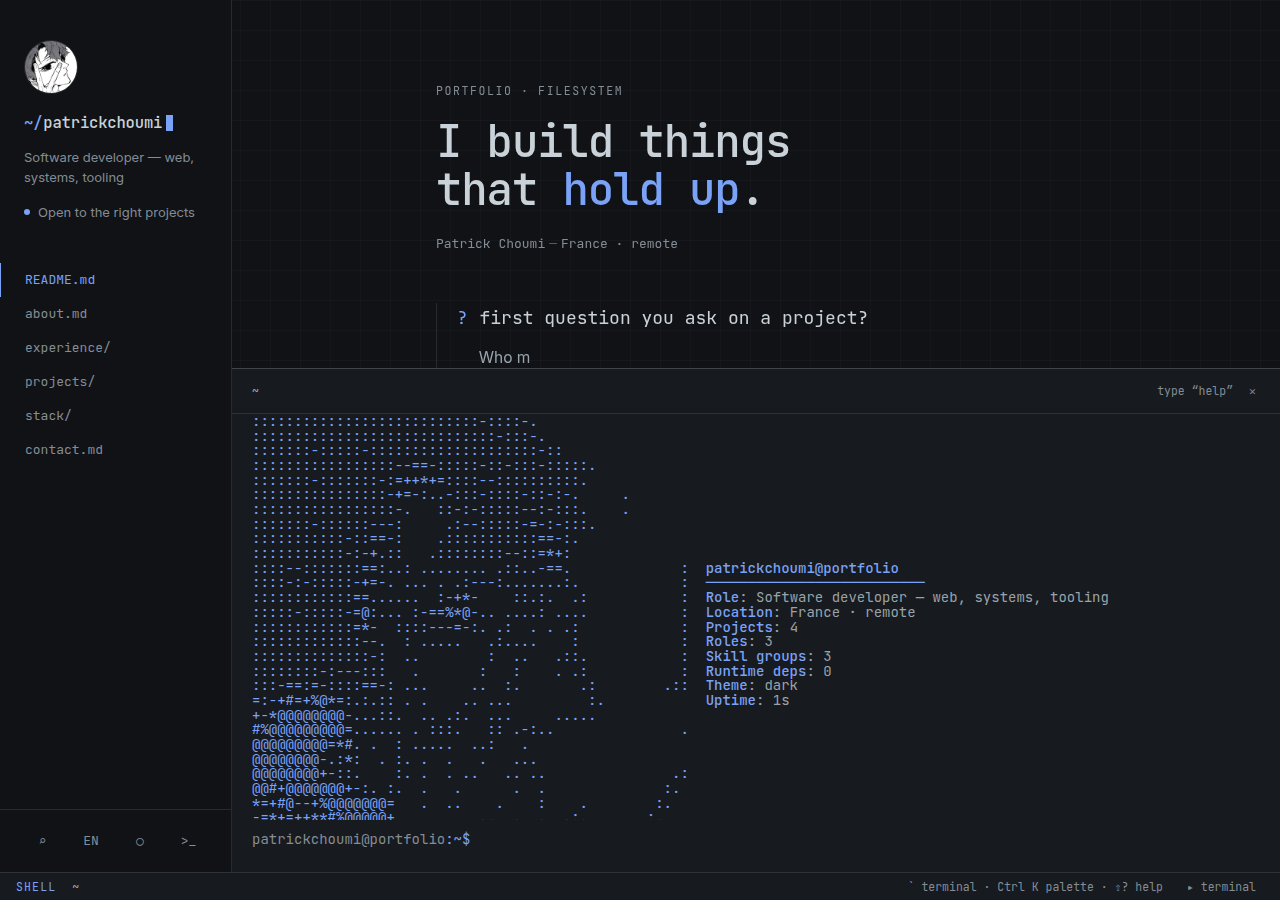
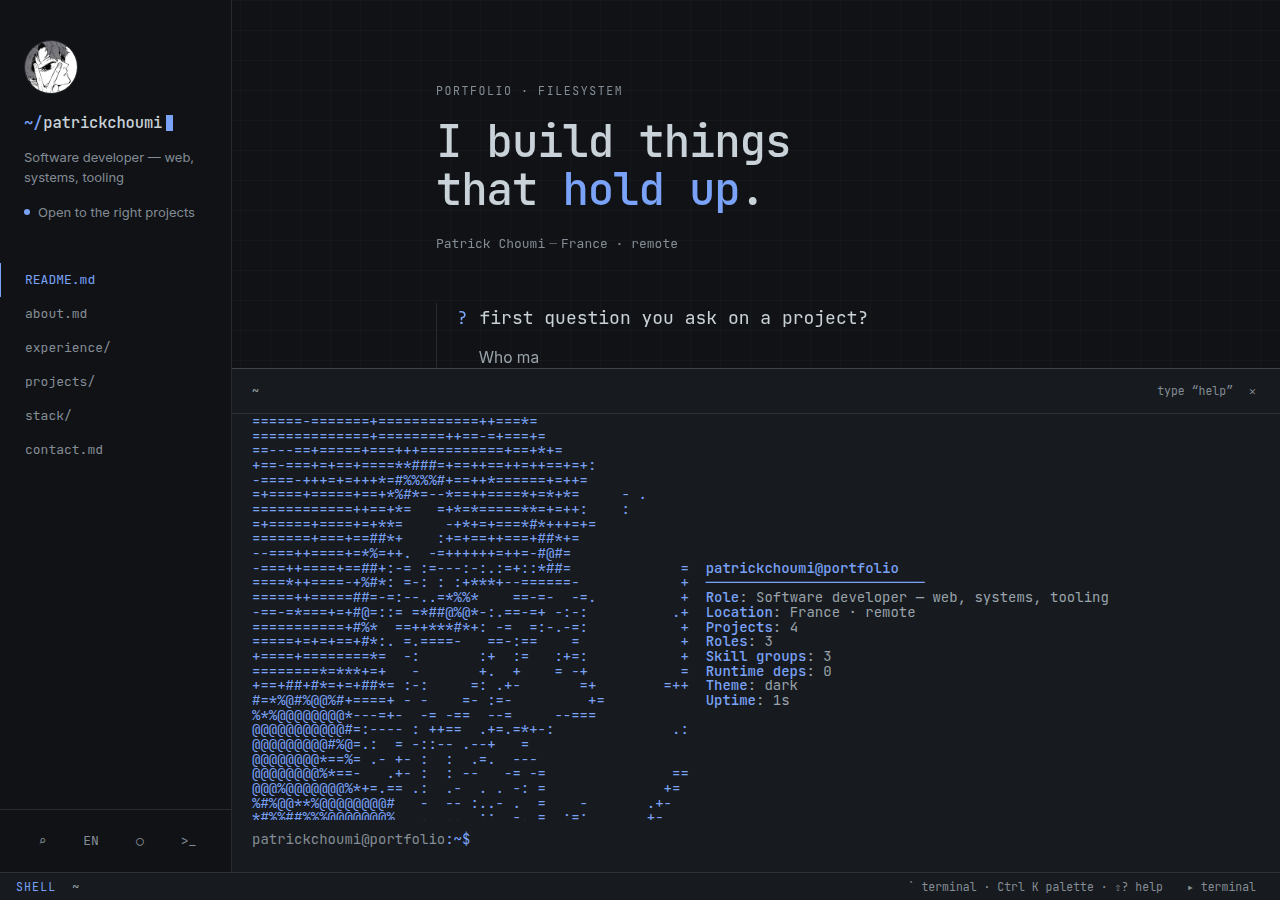
Restaure le rendu dense du portrait, celui qui ressemble à la photo
Le rendu en caractères avait été éclairci en cours de route, pour mieux
distinguer les traits du visage. C'était le mauvais critère : l'image source
est une planche de manga, une masse dense de hachures. Un dessin clair et
aéré évoque un croquis léger — il montre mieux, mais il ressemble moins.

Les réglages reviennent donc aux valeurs qui rendent cette densité, et la
première ligne du dessin est désormais identique, caractère pour caractère, à
la version retenue. `portrait` et `neofetch` partagent la même largeur de
référence, donc le portrait est le même partout.

Les commentaires de src/js/ascii.js et le README décrivaient l'arbitrage
inverse — ils affirmaient que la courbe « rend les aplats au papier et ne
garde dense que l'encre franche », c'est-à-dire exactement ce qui a été
écarté. Ils énoncent maintenant le vrai critère : la ressemblance prime sur
la lisibilité, ce sont deux choses différentes, et il faut choisir.

Aucun changement de logique : seuls deux réglages et la documentation qui
les explique.

Claude-Session: https://claude.ai/code/session_012zJzcGpwaaTy9bpRD85TeV

diff --git a/src/js/ascii.js b/src/js/ascii.js
@@ -9,7 +9,12 @@
 //  aucune étape de build, aucun décodeur d'image à écrire, aucune dépendance,
 //  et n'importe quel format lisible par le navigateur fonctionne.
 //
-//  Trois décisions ont été prises après un premier rendu illisible :
+//  L'OBJECTIF EST LA RESSEMBLANCE. Pas la lisibilité du visage, pas la
+//  finesse du trait : que le tableau de caractères évoque immédiatement
+//  l'image d'origine. C'est ce critère qui a tranché chacun des choix
+//  ci-dessous, et il n'est pas toujours celui qu'on croit — un rendu plus
+//  clair montre mieux les traits, mais ressemble à un croquis là où la
+//  planche source est une masse dense.
 //
 //  1. LES CARACTÈRES JOUENT L'ENCRE, PAS LA LUMIÈRE. Les pixels sombres sont
 //     denses, les clairs sont vides — dans les deux thèmes. Inverser la rampe
@@ -21,18 +26,16 @@
 //     moyenne de chaque cellule : un trait noir d'un pixel au milieu de blanc
 //     devient un gris très clair, et le dessin s'efface. On dessine donc à
 //     plusieurs fois la résolution cible, puis chaque cellule mélange sa
-//     moyenne et son pixel le plus sombre. Les traits survivent, les aplats
-//     gardent leur valeur.
+//     moyenne et son pixel le plus sombre. Les traits survivent, et les
+//     aplats hachurés gardent la densité qu'ils ont à l'œil.
 //
 //  3. LES NIVEAUX SONT RECALÉS SUR L'IMAGE. Plutôt qu'un contraste fixe, on
 //     étale la plage réellement présente (2e au 98e centile) sur toute la
-//     rampe. Une image terne comme une image contrastée sortent lisibles.
+//     rampe. Une image terne comme une image contrastée s'en sortent.
 //
-//  4. LES DEMI-TONS SONT REPOUSSÉS VERS LE PAPIER. Une trame de manga —
-//     hachures serrées — a beau se lire gris clair à l'œil, sa moyenne est
-//     franchement sombre : sans correction, une chevelure sort en bloc plein
-//     et avale le visage. Une courbe en puissance rend ces aplats au papier
-//     et ne garde dense que l'encre franche.
+//  4. LA COURBE FINALE DOSE LA DENSITÉ. Elle décide de la quantité d'encre
+//     du dessin — c'est le réglage le plus sensible, et celui qui fait qu'on
+//     reconnaît la photo ou non. Voir INK_BIAS et GAMMA plus bas.
 //
 //  (Détail voisin, réglé côté CSS : JetBrains Mono ligature « == », « -- »,
 //  « =+ ». Sur un dessin en caractères, ces fusions disloquent la grille — le
@@ -50,16 +53,30 @@ const RAMP = ' .:-=+*#%@';
 // SUPER×SUPER pixels. Au-delà de 4, le gain devient invisible.
 const SUPER = 4;
 
+// ─── Les deux réglages qui décident du rendu ──────────────────────────
+//
+// Ils ont été arrêtés en comparant plusieurs rendus à l'image source, et le
+// critère retenu est la RESSEMBLANCE, pas la lisibilité du visage. Ce sont
+// deux choses différentes, et il faut choisir :
+//
+//   • des valeurs plus basses donnent un dessin clair, aéré, où l'on
+//     distingue mieux les traits — mais qui ressemble à un croquis léger,
+//     alors que la planche source est une masse dense de hachures ;
+//   • les valeurs ci-dessous rendent cette densité. Le dessin est plus
+//     chargé, et c'est précisément ce qui le fait reconnaître.
+//
+// Elles vont de pair avec PORTRAIT_COLS (src/js/commands.js) : le rendu a été
+// jugé à cette largeur-là. Changer l'un sans l'autre casse l'équilibre.
+
 // Part du pixel le plus sombre dans la valeur d'une cellule. À 0 on obtient
 // une moyenne pure — les traits d'un pixel s'effacent. À 1, le moindre point
-// noir noircit toute la cellule et les aplats hachurés se bouchent. Réglé à
-// l'œil sur une vraie planche de manga.
-const INK_BIAS = 0.32;
+// noir noircit toute la cellule.
+const INK_BIAS = 0.55;
 
 // Courbe appliquée après le recalage des niveaux. En dessous de 1, elle
-// repousse les demi-tons vers le papier. Sans elle, une chevelure hachurée —
-// qui se lit gris clair à l'œil — sort en bloc uniforme et avale le visage.
-const GAMMA = 0.28;
+// repousse les demi-tons vers le papier ; plus on descend, plus le dessin
+// s'éclaircit.
+const GAMMA = 0.6;
 
 // Rapport hauteur/largeur d'un caractère. Sert de repli : l'appelant mesure
 // normalement la vraie valeur sur le terminal et la passe en option.

diff --git a/README.md b/README.md
@@ -54,7 +54,11 @@ la demande : aucune étape de build, aucun décodeur d'image à écrire, aucune
 dépendance. N'importe quel format que le navigateur sait lire fonctionne
 (png, jpg, webp, avif), et le résultat est mis en cache.
 
-Trois pièges ont demandé un essai raté avant de tomber juste.
+**Le critère est la ressemblance**, pas la lisibilité du visage. Ce sont deux
+choses différentes, et il faut choisir : un rendu clair et aéré montre mieux
+les traits, mais évoque un croquis léger là où la planche source est une masse
+dense de hachures. C'est ce critère qui a tranché chacun des points suivants,
+et il n'a pas toujours donné la réponse attendue.
 
 **Les caractères jouent l'encre, pas la lumière.** Inverser la rampe selon le
 thème paraissait logique — sur fond sombre, les pixels clairs denses. Sur un
@@ -65,20 +69,21 @@ le visage disparaît. Un trait reste un trait, quel que soit le fond.
 de caractères moyenne chaque cellule : un trait noir d'un pixel au milieu de
 blanc devient un gris presque invisible. On dessine donc à quatre fois la
 résolution cible, puis chaque cellule mélange sa moyenne et son pixel le plus
-sombre. Ensuite les niveaux sont recalés sur la plage réellement présente, et
-une courbe en puissance rend les demi-tons au papier — sans elle, une
-chevelure hachurée sort en bloc plein et avale le visage.
+sombre. Les niveaux sont ensuite recalés sur la plage réellement présente, et
+une courbe en puissance dose la quantité d'encre finale — c'est le réglage le
+plus sensible, celui qui fait qu'on reconnaît la photo ou non.
 
 **JetBrains Mono ligature `==`, `--`, `=+`.** Dans un terminal c'est déjà
 discutable sur des chemins ; sur un dessin en caractères c'est fatal — les
 fusions disloquent la grille et le portrait devient une bouillie de traits.
 Le terminal coupe donc les ligatures (`font-variant-ligatures: none`).
 
-**La taille n'est pas libre.** Les réglages ci-dessus ont été calibrés à l'œil
-sur une largeur précise — 52 colonnes. Plus large, le dessin s'éclaircit et se
-dilue en bruit ; plus étroit, il sature. `portrait` et `neofetch` s'y tiennent
-donc tous les deux, pour que le portrait soit le même partout. `portrait 90`
-reste possible pour une version plus grande.
+**La taille fait partie du réglage.** Le rendu a été jugé à une largeur
+précise — 52 colonnes. `portrait` et `neofetch` s'y tiennent tous les deux,
+pour que le portrait soit le même partout ; changer l'un des deux réglages
+sans l'autre casse l'équilibre. `portrait 90` reste possible pour une version
+plus grande, et la largeur du terminal reste la limite : sur un téléphone, le
+dessin s'adapte plutôt que de déborder.
 
 ### Mettre ta photo
 
